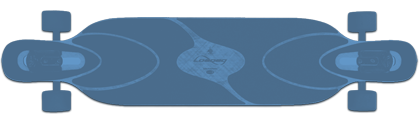
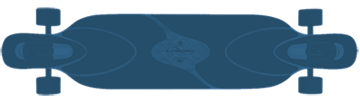
smaller board

diff --git a/index.html b/index.html
@@ -50,7 +50,7 @@
             <div class="container herocontent">
                 <h2 id="fname" class="wow fadeInUp" data-wow-duration="2s">Brian Shumate</h2>
                 <h3 class="wow fadeInDown" data-wow-duration="3s">Art ⁂ Data ⁂ Boards ⁂ Water</h3>
-								<center><img width="420" height="120" class="wow fadeInUp" data-wow-duration="4s" src="/img/longboard.png"/></center>
+								<center><img width="360" height="100" class="wow fadeInUp" data-wow-duration="4s" src="/img/longboard.png"/></center>
             </div>
 
           <nav class="navbar navbar-inverse navbar-fixed-top" role="navigation">
